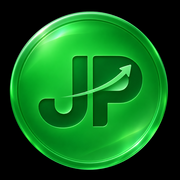
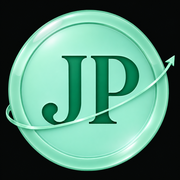
Atualiza ícones JP com moeda liquid glass e seta

diff --git a/index.html b/index.html
@@ -1,1 +1,1 @@
-<!doctype html><html lang="pt-BR"><head><meta charset="utf-8"><meta name="viewport" content="width=device-width,initial-scale=1,viewport-fit=cover"><meta name="theme-color" content="#111916"><meta name="apple-mobile-web-app-capable" content="yes"><meta name="apple-mobile-web-app-status-bar-style" content="black-translucent"><link rel="manifest" href="manifest.json"><link rel="apple-touch-icon" sizes="180x180" href="assets/icon-180.png?v=jp-green"><link rel="stylesheet" href="src/ui/style.css"><title>Jphinance</title></head><body><div id="page-content"><header><img src="assets/JPCoin.png?v=jp-green" alt=""><div><strong>Jphinance</strong><small id="status">Somente neste aparelho</small></div></header><main id="screen"></main></div><nav id="nav" aria-label="Navegação"></nav><dialog id="editor"><form id="form"><h2 id="form-title"></h2><div id="fields"></div><p id="error" role="alert"></p><div class="actions"><button type="button" id="cancel">Cancelar</button><button class="primary" type="submit">Salvar</button></div></form></dialog><script type="module" src="src/ui/app.js"></script></body></html>
+<!doctype html><html lang="pt-BR"><head><meta charset="utf-8"><meta name="viewport" content="width=device-width,initial-scale=1,viewport-fit=cover"><meta name="theme-color" content="#111916"><meta name="apple-mobile-web-app-capable" content="yes"><meta name="apple-mobile-web-app-status-bar-style" content="black-translucent"><link rel="manifest" href="manifest.json"><link rel="apple-touch-icon" sizes="180x180" href="assets/icon-180.png?v=jp-glass-orbit"><link rel="stylesheet" href="src/ui/style.css"><title>Jphinance</title></head><body><div id="page-content"><header><img src="assets/JPCoin.png?v=jp-glass-orbit" alt=""><div><strong>Jphinance</strong><small id="status">Somente neste aparelho</small></div></header><main id="screen"></main></div><nav id="nav" aria-label="Navegação"></nav><dialog id="editor"><form id="form"><h2 id="form-title"></h2><div id="fields"></div><p id="error" role="alert"></p><div class="actions"><button type="button" id="cancel">Cancelar</button><button class="primary" type="submit">Salvar</button></div></form></dialog><script type="module" src="src/ui/app.js"></script></body></html>

diff --git a/sw.js b/sw.js
@@ -1,4 +1,4 @@
-const CACHE='jphinance-v15';const ASSETS=['./','./index.html','./src/ui/style.css','./src/ui/app.js','./src/domain/ledger.js','./src/services/crypto.js','./src/services/storage.js','./manifest.json','./assets/JPCoin.png?v=jp-green','./assets/icon-180.png?v=jp-green','./assets/icon-192.png?v=jp-green','./assets/icon-512.png?v=jp-green'];
+const CACHE='jphinance-v16';const ASSETS=['./','./index.html','./src/ui/style.css','./src/ui/app.js','./src/domain/ledger.js','./src/services/crypto.js','./src/services/storage.js','./manifest.json','./assets/JPCoin.png?v=jp-glass-orbit','./assets/icon-180.png?v=jp-glass-orbit','./assets/icon-192.png?v=jp-glass-orbit','./assets/icon-512.png?v=jp-glass-orbit'];
 self.addEventListener('install',e=>e.waitUntil(caches.open(CACHE).then(c=>c.addAll(ASSETS)).then(()=>self.skipWaiting())));
 self.addEventListener('activate',e=>e.waitUntil(caches.keys().then(keys=>Promise.all(keys.filter(k=>k.startsWith('jphinance-')&&k!==CACHE).map(k=>caches.delete(k)))).then(()=>self.clients.claim())));
 self.addEventListener('fetch',e=>{if(e.request.method!=='GET'||new URL(e.request.url).origin!==location.origin)return;e.respondWith(fetch(e.request).catch(()=>caches.match(e.request).then(r=>r||(e.request.mode==='navigate'?caches.match('./index.html'):Response.error()))));});
